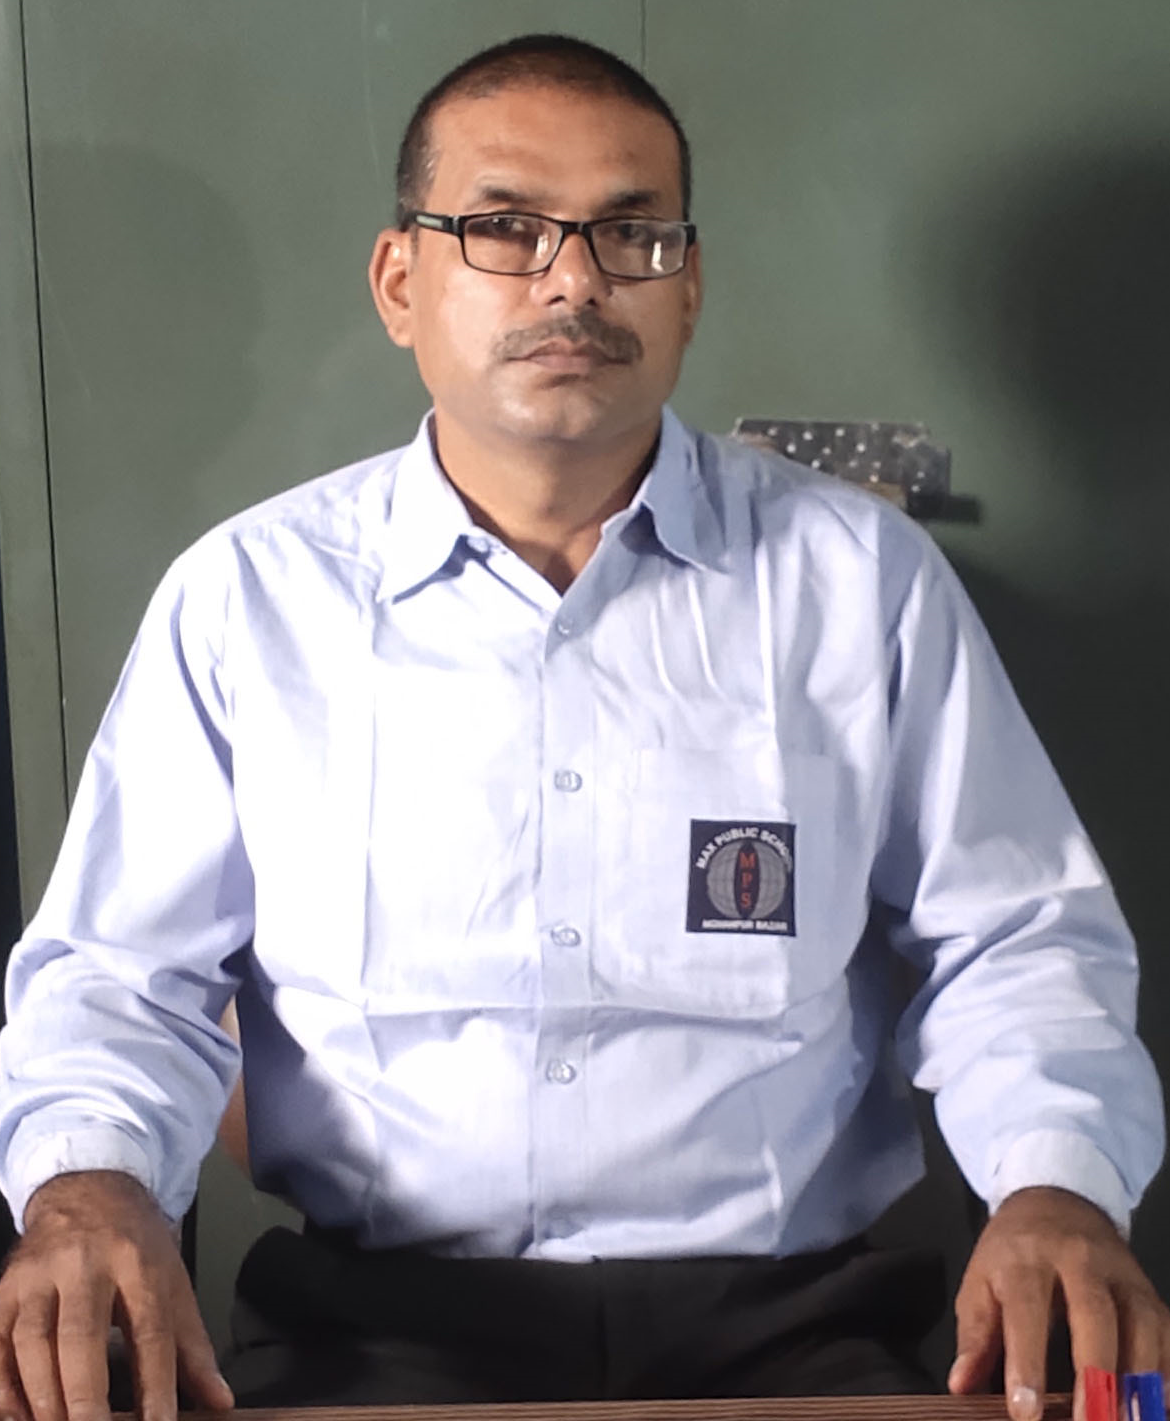
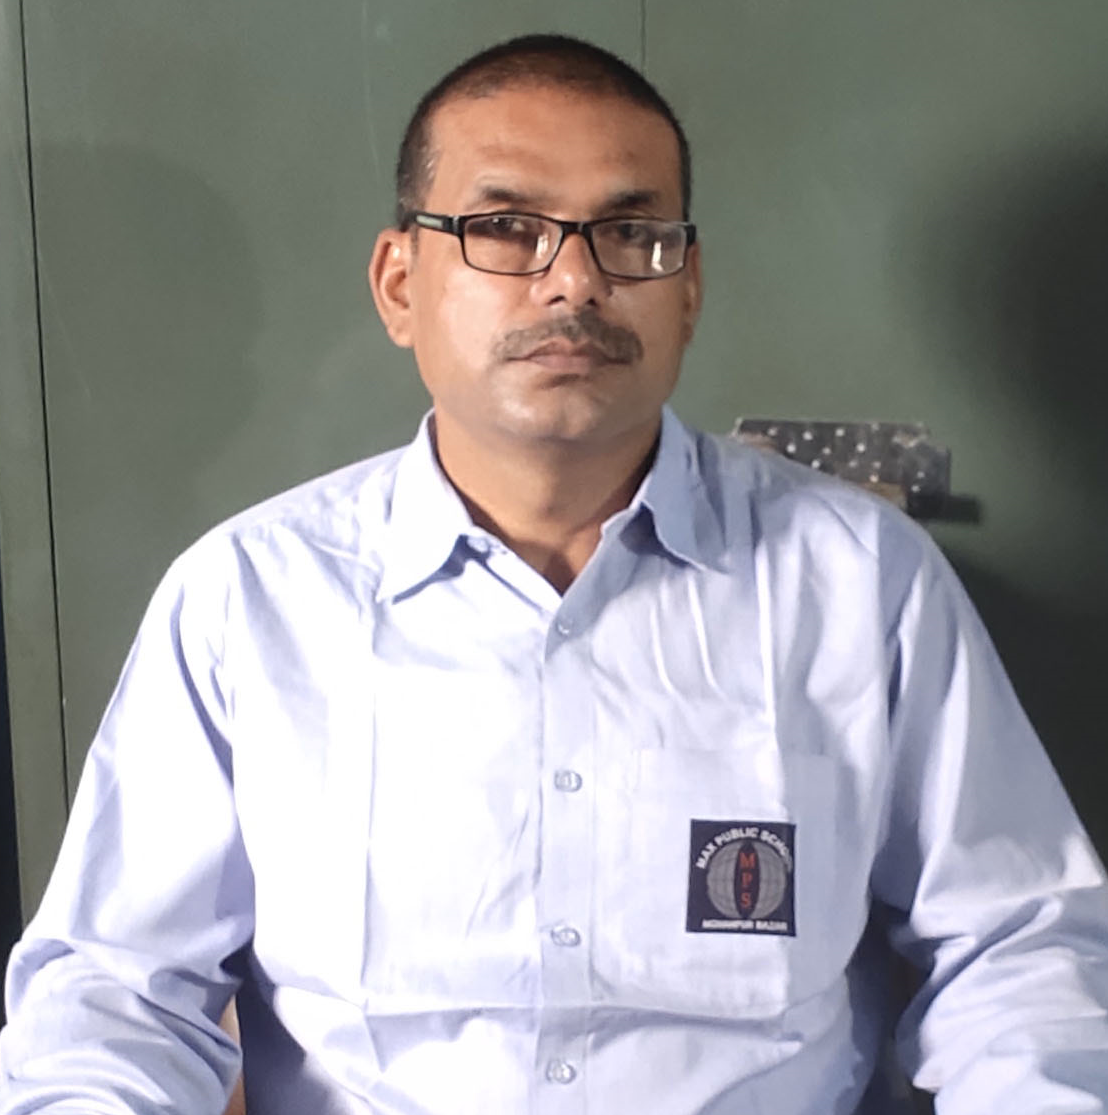
updated img size

diff --git a/src/data/profiles.js b/src/data/profiles.js
@@ -24,7 +24,7 @@ const profiles = [
     id: 8,
     name: 'Tribhuvan Malakar',
     role: 'Teacher',
-    image: '/teachers/Imran_khan.png'
+    image: '/teachers/Amanpreet.png'
   },
   {
     id: 9,
@@ -60,7 +60,7 @@ const profiles = [
     id: 5,
     name: 'Amresh Pandey',
     role: 'Teacher',
-    image: '/teachers/Ashish_kumar.png'
+    image: '/teachers/Amresh_pandey.png'
   },
 
 
